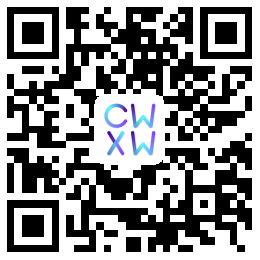
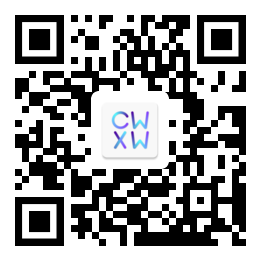
Site updated: 2020-07-21 18:21:45

diff --git a/index.html b/index.html
@@ -183,25 +183,9 @@
 <li><a href="https://github.com/mmin18/AndroidDynamicLoader" target="_blank" rel="noopener">AndroidDynamicLoader</a></li>
 <li><a href="https://github.com/wequick/Small" target="_blank" rel="noopener">Small</a></li>
 </ul>
-<h2 id="2-热修复方案"><a href="#2-热修复方案" class="headerlink" title="2.热修复方案"></a>2.热修复方案</h2><h5 id="阿里系"><a href="#阿里系" class="headerlink" title="阿里系"></a>阿里系</h5><ul>
-<li><a href="https://github.com/alibaba/AndFix" target="_blank" rel="noopener">AndFix</a></li>
-<li><a href="https://github.com/alibaba/dexposed" target="_blank" rel="noopener">dexposed</a></li>
-<li>Sophix</li>
-</ul>
-<h5 id="腾讯系"><a href="#腾讯系" class="headerlink" title="腾讯系"></a>腾讯系</h5><ul>
-<li><a href="https://github.com/Tencent/tinker" target="_blank" rel="noopener">微信tinker</a></li>
-<li>QQ空间的超级补丁</li>
-<li>手机QQ的QFix</li>
-</ul>
-<h5 id="其他"><a href="#其他" class="headerlink" title="其他"></a>其他</h5><ul>
-<li><a href="https://github.com/eleme/Amigo" target="_blank" rel="noopener">饿了吗Amigo</a></li>
-<li><a href="https://github.com/Meituan-Dianping/Robust" target="_blank" rel="noopener">美团Robust</a></li>
-<li><a href="https://github.com/meili/Aceso" target="_blank" rel="noopener">Aceso</a></li>
-<li><a href="https://github.com/jasonross/Nuwa" target="_blank" rel="noopener">Nuwa</a></li>
-<li><a href="https://github.com/dodola/RocooFix" target="_blank" rel="noopener">RocooFix</a></li>
-</ul>
-<p><strong>End</strong></p>
-
+        
+          <a class="article-more-a" href="/2020/05/16/hot_fix/#more">more >></a>
+        
       
 
       
@@ -281,40 +265,9 @@
 <p>于是我默默的打开了<a href="https://github.com/square/okhttp" target="_blank" rel="noopener">https://github.com/square/okhttp</a></p>
 <p>然后就是一连串的懵逼和对自己对OkHttp了解程度的打脸（我以为我用的3.10已经很新了）</p>
 <p><strong>😲什么时间可更新到4.3.1版本了？</strong><br><strong>😲又是什么时间从Java迁移到Kotlin了？</strong><br><strong>😲api变化大吗？</strong><br><strong>…</strong></p>
-<p>查阅到<a href="https://square.github.io/okhttp/upgrading_to_okhttp_4" target="_blank" rel="noopener">官方手册</a></p>
-<blockquote>
-<p>OkHttp 4.x upgrades our implementation language from Java to Kotlin and keeps everything else the same. We’ve chosen Kotlin because it gives us powerful new capabilities while integrating closely with Java.<br>We spent a lot of time and energy on retaining strict compatibility with OkHttp 3.x. We’re even keeping the package name the same: okhttp3!</p>
-</blockquote>
-<p>概括就是从4.x开始迁移到了Kotlin，并保持与okhttp3.x的严格兼容性，连包名都没变还是okhttp3</p>
-<p><em>看来Kotlin真的是大势所趋啊，幸好在一年多以前已经可以使用kotlin开发了</em></p>
-<p>不废话了，下面介绍OkHttp的基本请求和相应流程，源码就基于目前的最新版4.3.1</p>
-<h2 id="1-OkHttp最简单的用法"><a href="#1-OkHttp最简单的用法" class="headerlink" title="1.OkHttp最简单的用法"></a>1.OkHttp最简单的用法</h2><p>请求方式分为同步请求和异步请求</p>
-<figure class="highlight plain"><table><tr><td class="gutter"><pre><span class="line">1</span><br><span class="line">2</span><br><span class="line">3</span><br><span class="line">4</span><br><span class="line">5</span><br><span class="line">6</span><br><span class="line">7</span><br><span class="line">8</span><br><span class="line">9</span><br><span class="line">10</span><br><span class="line">11</span><br><span class="line">12</span><br><span class="line">13</span><br><span class="line">14</span><br></pre></td><td class="code"><pre><span class="line">val okHttpClient = OkHttpClient.Builder().build()</span><br><span class="line">val request = Request.Builder().url(&quot;https://xxxx&quot;).build()</span><br><span class="line">//1.同步请求直接返回response</span><br><span class="line">val response = okHttpClient.newCall(request).execute()</span><br><span class="line">//2.异步请求</span><br><span class="line">okHttpClient.newCall(request).enqueue(object : Callback &#123;</span><br><span class="line">    override fun onFailure(call: Call, e: IOException) &#123;</span><br><span class="line">        //网络请求失败的回调</span><br><span class="line">    &#125;</span><br><span class="line"></span><br><span class="line">    override fun onResponse(call: Call, response: Response) &#123;</span><br><span class="line">        //网络请求成功的回调</span><br><span class="line">    &#125;</span><br><span class="line">&#125;)</span><br></pre></td></tr></table></figure>
-<h2 id="2-流程解析"><a href="#2-流程解析" class="headerlink" title="2.流程解析"></a>2.流程解析</h2><h4 id="2-1-创建OkHttpClient"><a href="#2-1-创建OkHttpClient" class="headerlink" title="2.1 创建OkHttpClient"></a>2.1 创建OkHttpClient</h4><p>OkHttpClient是通信的客户端实例，用来统一调度发起请求与解析响应</p>
-<figure class="highlight plain"><table><tr><td class="gutter"><pre><span class="line">1</span><br><span class="line">2</span><br><span class="line">3</span><br><span class="line">4</span><br></pre></td><td class="code"><pre><span class="line">val okHttpClient = OkHttpClient.Builder()</span><br><span class="line">    .connectTimeout()</span><br><span class="line">    .addInterceptor()</span><br><span class="line">    .build()</span><br></pre></td></tr></table></figure>
-<p>OkHttpClient使用建造者模式为其设置一些参数，例如超时时间和自定义的拦截器等。一般我们在项目中OkHttpClient都是单例的，因为每个OkHttpClient实例都拥有自己的连接池、线程池和调度器，会对网络请求进行统一管理和连接复用，减少资源浪费和网络延迟</p>
-<figure class="highlight plain"><table><tr><td class="gutter"><pre><span class="line">1</span><br><span class="line">2</span><br><span class="line">3</span><br><span class="line">4</span><br><span class="line">5</span><br><span class="line">6</span><br><span class="line">7</span><br><span class="line">8</span><br></pre></td><td class="code"><pre><span class="line">class OkHttpClient &#123;</span><br><span class="line">    ...</span><br><span class="line">    //调度器，内部有线程池</span><br><span class="line">    val dispatcher: Dispatcher = builder.dispatcher</span><br><span class="line">    //连接池</span><br><span class="line">    val connectionPool: ConnectionPool = builder.connectionPool</span><br><span class="line">    ...</span><br><span class="line">&#125;</span><br></pre></td></tr></table></figure>
-<h4 id="2-2-创建Request"><a href="#2-2-创建Request" class="headerlink" title="2.2 创建Request"></a>2.2 创建Request</h4><p>Request封装了请求的具体信息，例如请求的url、请求方式、请求头、请求体</p>
-<figure class="highlight plain"><table><tr><td class="gutter"><pre><span class="line">1</span><br><span class="line">2</span><br><span class="line">3</span><br><span class="line">4</span><br><span class="line">5</span><br><span class="line">6</span><br><span class="line">7</span><br></pre></td><td class="code"><pre><span class="line">class Request internal constructor(</span><br><span class="line">  @get:JvmName(&quot;url&quot;) val url: HttpUrl,</span><br><span class="line">  @get:JvmName(&quot;method&quot;) val method: String,</span><br><span class="line">  @get:JvmName(&quot;headers&quot;) val headers: Headers,</span><br><span class="line">  @get:JvmName(&quot;body&quot;) val body: RequestBody?,</span><br><span class="line">  internal val tags: Map&lt;Class&lt;*&gt;, Any&gt;</span><br><span class="line">)</span><br></pre></td></tr></table></figure>
-<p>也是通过建造者模式设置这些参数</p>
-<figure class="highlight plain"><table><tr><td class="gutter"><pre><span class="line">1</span><br><span class="line">2</span><br><span class="line">3</span><br><span class="line">4</span><br><span class="line">5</span><br></pre></td><td class="code"><pre><span class="line">val request = Request.Builder()</span><br><span class="line">    .url()</span><br><span class="line">    .post()</span><br><span class="line">    .header()</span><br><span class="line">    .build()</span><br></pre></td></tr></table></figure>
-<h4 id="2-3-创建Call"><a href="#2-3-创建Call" class="headerlink" title="2.3 创建Call"></a>2.3 创建Call</h4><p>Call是一个接口，具体的实现类是RealCall，OkHttp的请求也都封装了RealCall中<br><figure class="highlight plain"><table><tr><td class="gutter"><pre><span class="line">1</span><br><span class="line">2</span><br><span class="line">3</span><br><span class="line">4</span><br><span class="line">5</span><br><span class="line">6</span><br><span class="line">7</span><br><span class="line">8</span><br><span class="line">9</span><br><span class="line">10</span><br><span class="line">11</span><br><span class="line">12</span><br><span class="line">13</span><br><span class="line">14</span><br><span class="line">15</span><br><span class="line">16</span><br><span class="line">17</span><br><span class="line">18</span><br><span class="line">19</span><br><span class="line">20</span><br><span class="line">21</span><br><span class="line">22</span><br><span class="line">23</span><br><span class="line">24</span><br><span class="line">25</span><br><span class="line">26</span><br><span class="line">27</span><br><span class="line">28</span><br><span class="line">29</span><br><span class="line">30</span><br><span class="line">31</span><br></pre></td><td class="code"><pre><span class="line">class OkHttpClient &#123;</span><br><span class="line">    ...</span><br><span class="line">    override fun newCall(request: Request): Call &#123;</span><br><span class="line">        return RealCall.newRealCall(this, request, false)</span><br><span class="line">    &#125;</span><br><span class="line">    ...</span><br><span class="line">&#125;</span><br><span class="line"></span><br><span class="line">interface Call : Cloneable &#123;</span><br><span class="line"></span><br><span class="line">    //请求的信息</span><br><span class="line">    fun request(): Request</span><br><span class="line">    //同步请求，会阻塞线程知道返回结果Response</span><br><span class="line">    fun execute(): Response</span><br><span class="line">    //异步请求，通过回调得到Response</span><br><span class="line">    fun enqueue(responseCallback: Callback)</span><br><span class="line">    //取消请求</span><br><span class="line">    fun cancel()</span><br><span class="line">    //请求是否在执行</span><br><span class="line">    fun isExecuted(): Boolean</span><br><span class="line">    //请求是否被取消</span><br><span class="line">    fun isCanceled(): Boolean</span><br><span class="line"></span><br><span class="line">    fun timeout(): Timeout</span><br><span class="line"></span><br><span class="line">    public override fun clone(): okhttp3.Call</span><br><span class="line"></span><br><span class="line">    interface Factory &#123;</span><br><span class="line">        fun newCall(request: Request): okhttp3.Call</span><br><span class="line">    &#125;</span><br><span class="line">&#125;</span><br></pre></td></tr></table></figure></p>
-<p>调用OkHttpClient的newCall()方法创建RealCall对象，这时会传入当前OkHttpClient实例this和上一步创建的request</p>
-<h4 id="2-4-开始请求"><a href="#2-4-开始请求" class="headerlink" title="2.4 开始请求"></a>2.4 开始请求</h4><h5 id="2-4-1-调度器Dispatcher"><a href="#2-4-1-调度器Dispatcher" class="headerlink" title="2.4.1 调度器Dispatcher"></a>2.4.1 调度器Dispatcher</h5><p>Dispatcher是OkHttp的一个核心类，负责调度同步和异步请求，取消请求，管理每一个请求的状态，内部维护了一个用来执行异步任务的线程池和三个请求队列，所有的请求Call都要先添加到请求队列</p>
-<figure class="highlight plain"><table><tr><td class="gutter"><pre><span class="line">1</span><br><span class="line">2</span><br><span class="line">3</span><br><span class="line">4</span><br><span class="line">5</span><br><span class="line">6</span><br><span class="line">7</span><br><span class="line">8</span><br><span class="line">9</span><br><span class="line">10</span><br><span class="line">11</span><br><span class="line">12</span><br><span class="line">13</span><br><span class="line">14</span><br><span class="line">15</span><br><span class="line">16</span><br><span class="line">17</span><br><span class="line">18</span><br><span class="line">19</span><br><span class="line">20</span><br><span class="line">21</span><br><span class="line">22</span><br><span class="line">23</span><br><span class="line">24</span><br><span class="line">25</span><br><span class="line">26</span><br></pre></td><td class="code"><pre><span class="line">class Dispatcher &#123;</span><br><span class="line">    ...</span><br><span class="line">    //最大任务数</span><br><span class="line">    var maxRequests = 64</span><br><span class="line">    //同一主机下最大任务数</span><br><span class="line">    var maxRequestsPerHost = 5</span><br><span class="line">    //准备运行的异步请求</span><br><span class="line">    private val readyAsyncCalls = ArrayDeque&lt;RealCall.AsyncCall&gt;()</span><br><span class="line">    //正在运行的异步请求</span><br><span class="line">    private val runningAsyncCalls = ArrayDeque&lt;RealCall.AsyncCall&gt;()</span><br><span class="line">    //正在运行的同步请求</span><br><span class="line">    private val runningSyncCalls = ArrayDeque&lt;RealCall&gt;()</span><br><span class="line">    //执行异步请求的线程池</span><br><span class="line">    private var executorServiceOrNull: ExecutorService? = null</span><br><span class="line">    val executorService: ExecutorService</span><br><span class="line">        get() &#123;</span><br><span class="line">            if (executorServiceOrNull == null) &#123;</span><br><span class="line">                executorServiceOrNull = ThreadPoolExecutor(</span><br><span class="line">                    0, Int.MAX_VALUE, 60, TimeUnit.SECONDS,</span><br><span class="line">                    SynchronousQueue(), threadFactory(&quot;OkHttp Dispatcher&quot;, false)</span><br><span class="line">                )</span><br><span class="line">            &#125;</span><br><span class="line">            return executorServiceOrNull!!</span><br><span class="line">        &#125;</span><br><span class="line">    ...</span><br><span class="line">&#125;</span><br></pre></td></tr></table></figure>
-<h5 id="2-4-2-同步请求"><a href="#2-4-2-同步请求" class="headerlink" title="2.4.2 同步请求"></a>2.4.2 同步请求</h5><p>同步请求会调用RealCall的execute方法，将自己添加进dispatcher的正在执行的任务队列，然后调用getResponseWithInterceptorChain方法得到response,最后又会调用dispatcher的finished方法从队列移除<br><figure class="highlight plain"><table><tr><td class="gutter"><pre><span class="line">1</span><br><span class="line">2</span><br><span class="line">3</span><br><span class="line">4</span><br><span class="line">5</span><br><span class="line">6</span><br><span class="line">7</span><br><span class="line">8</span><br><span class="line">9</span><br><span class="line">10</span><br><span class="line">11</span><br><span class="line">12</span><br><span class="line">13</span><br><span class="line">14</span><br><span class="line">15</span><br><span class="line">16</span><br><span class="line">17</span><br><span class="line">18</span><br><span class="line">19</span><br><span class="line">20</span><br><span class="line">21</span><br><span class="line">22</span><br></pre></td><td class="code"><pre><span class="line">class Dispatcher &#123;</span><br><span class="line">    ...</span><br><span class="line">    override fun execute(): Response &#123;</span><br><span class="line">        synchronized(this) &#123;</span><br><span class="line">            //检测是否重复调用</span><br><span class="line">            check(!executed) &#123; &quot;Already Executed&quot; &#125;</span><br><span class="line">            executed = true</span><br><span class="line">        &#125;</span><br><span class="line">        transmitter.timeoutEnter()</span><br><span class="line">        transmitter.callStart()</span><br><span class="line">        try &#123;</span><br><span class="line">            //dispatcher的executed方法，将任务添加进正在运行的同步请求队列</span><br><span class="line">            client.dispatcher.executed(this)</span><br><span class="line">            //调用getResponseWithInterceptorChain方法</span><br><span class="line">            return getResponseWithInterceptorChain()</span><br><span class="line">        &#125; finally &#123;</span><br><span class="line">            //将任务从队列移除</span><br><span class="line">            client.dispatcher.finished(this)</span><br><span class="line">        &#125;</span><br><span class="line">    &#125;</span><br><span class="line">    ...</span><br><span class="line">&#125;</span><br></pre></td></tr></table></figure></p>
-<h5 id="2-4-3-异步请求"><a href="#2-4-3-异步请求" class="headerlink" title="2.4.3 异步请求"></a>2.4.3 异步请求</h5><p>异步请求会调用RealCall的enqueue方法，传入一个Callback用于回调网络请求结果</p>
-<figure class="highlight plain"><table><tr><td class="gutter"><pre><span class="line">1</span><br><span class="line">2</span><br><span class="line">3</span><br><span class="line">4</span><br><span class="line">5</span><br><span class="line">6</span><br><span class="line">7</span><br><span class="line">8</span><br><span class="line">9</span><br><span class="line">10</span><br></pre></td><td class="code"><pre><span class="line">override fun enqueue(responseCallback: Callback) &#123;</span><br><span class="line">    synchronized(this) &#123;</span><br><span class="line">        //检测是否重复调用</span><br><span class="line">        check(!executed) &#123; &quot;Already Executed&quot; &#125;</span><br><span class="line">        executed = true</span><br><span class="line">    &#125;</span><br><span class="line">    transmitter.callStart()</span><br><span class="line">    //dispatcher的enqueue方法</span><br><span class="line">    client.dispatcher.enqueue(AsyncCall(responseCallback))</span><br><span class="line">&#125;</span><br></pre></td></tr></table></figure>
-<p>RealCall的enqueue方法里面进而又调用okHttpClient的成员dispatcher的enqueue方法，这时候对callback进行的包装，传建一个AsyncCall</p>
-<figure class="highlight plain"><table><tr><td class="gutter"><pre><span class="line">1</span><br><span class="line">2</span><br><span class="line">3</span><br><span class="line">4</span><br><span class="line">5</span><br><span class="line">6</span><br><span class="line">7</span><br><span class="line">8</span><br><span class="line">9</span><br><span class="line">10</span><br><span class="line">11</span><br><span class="line">12</span><br><span class="line">13</span><br><span class="line">14</span><br><span class="line">15</span><br><span class="line">16</span><br><span class="line">17</span><br><span class="line">18</span><br><span class="line">19</span><br><span class="line">20</span><br><span class="line">21</span><br><span class="line">22</span><br><span class="line">23</span><br><span class="line">24</span><br><span class="line">25</span><br><span class="line">26</span><br><span class="line">27</span><br><span class="line">28</span><br><span class="line">29</span><br><span class="line">30</span><br><span class="line">31</span><br><span class="line">32</span><br><span class="line">33</span><br><span class="line">34</span><br><span class="line">35</span><br><span class="line">36</span><br><span class="line">37</span><br><span class="line">38</span><br><span class="line">39</span><br><span class="line">40</span><br><span class="line">41</span><br><span class="line">42</span><br><span class="line">43</span><br><span class="line">44</span><br><span class="line">45</span><br><span class="line">46</span><br><span class="line">47</span><br></pre></td><td class="code"><pre><span class="line">class Dispatcher &#123;</span><br><span class="line">    ...</span><br><span class="line">    internal fun enqueue(call: RealCall.AsyncCall) &#123;</span><br><span class="line">        ...</span><br><span class="line">        synchronized(this) &#123;</span><br><span class="line">            //添加进准备队列</span><br><span class="line">            readyAsyncCalls.add(call)</span><br><span class="line">        &#125;</span><br><span class="line">        //取出可执行的任务</span><br><span class="line">        promoteAndExecute()</span><br><span class="line">    &#125;</span><br><span class="line"></span><br><span class="line">    private fun promoteAndExecute(): Boolean &#123;</span><br><span class="line">        ...</span><br><span class="line">        //可执行任务的集合</span><br><span class="line">        val executableCalls = mutableListOf&lt;RealCall.AsyncCall&gt;()</span><br><span class="line">        val isRunning: Boolean</span><br><span class="line">        synchronized(this) &#123;</span><br><span class="line">            val i = readyAsyncCalls.iterator()</span><br><span class="line">            while (i.hasNext()) &#123;</span><br><span class="line">                val asyncCall = i.next()</span><br><span class="line"></span><br><span class="line">                //判断是否超过最大任务数</span><br><span class="line">                if (runningAsyncCalls.size &gt;= this.maxRequests) break</span><br><span class="line">                //判断是否超过同一主机下最大任务数</span><br><span class="line">                if (asyncCall.callsPerHost().get() &gt;= this.maxRequestsPerHost) continue</span><br><span class="line">                //从等待队列移除</span><br><span class="line">                i.remove()</span><br><span class="line">                asyncCall.callsPerHost().incrementAndGet()</span><br><span class="line">                //添加到可执行任务的集合</span><br><span class="line">                executableCalls.add(asyncCall)</span><br><span class="line">                //添加到正在运行的队列</span><br><span class="line">                runningAsyncCalls.add(asyncCall)</span><br><span class="line">            &#125;</span><br><span class="line">            isRunning = runningCallsCount() &gt; 0</span><br><span class="line">        &#125;</span><br><span class="line"></span><br><span class="line">        for (i in 0 until executableCalls.size) &#123;</span><br><span class="line">            val asyncCall = executableCalls[i]</span><br><span class="line">            //执行任务，调用asyncCall的executeOn方法</span><br><span class="line">            asyncCall.executeOn(executorService)</span><br><span class="line">        &#125;</span><br><span class="line"></span><br><span class="line">        return isRunning</span><br><span class="line">    &#125;</span><br><span class="line">    ...</span><br><span class="line">&#125;</span><br></pre></td></tr></table></figure>
-<p>而AsyncCall又是一个Runnable,会在executeOn中将自己添加到线程池executorService ，在run方法中得到网络请求的结果response</p>
-<figure class="highlight plain"><table><tr><td class="gutter"><pre><span class="line">1</span><br><span class="line">2</span><br><span class="line">3</span><br><span class="line">4</span><br><span class="line">5</span><br><span class="line">6</span><br><span class="line">7</span><br><span class="line">8</span><br><span class="line">9</span><br><span class="line">10</span><br><span class="line">11</span><br><span class="line">12</span><br><span class="line">13</span><br><span class="line">14</span><br><span class="line">15</span><br><span class="line">16</span><br><span class="line">17</span><br><span class="line">18</span><br><span class="line">19</span><br><span class="line">20</span><br><span class="line">21</span><br><span class="line">22</span><br><span class="line">23</span><br><span class="line">24</span><br><span class="line">25</span><br><span class="line">26</span><br><span class="line">27</span><br><span class="line">28</span><br><span class="line">29</span><br><span class="line">30</span><br><span class="line">31</span><br><span class="line">32</span><br><span class="line">33</span><br><span class="line">34</span><br><span class="line">35</span><br><span class="line">36</span><br><span class="line">37</span><br><span class="line">38</span><br><span class="line">39</span><br><span class="line">40</span><br><span class="line">41</span><br><span class="line">42</span><br><span class="line">43</span><br><span class="line">44</span><br><span class="line">45</span><br><span class="line">46</span><br><span class="line">47</span><br></pre></td><td class="code"><pre><span class="line">internal inner class AsyncCall(</span><br><span class="line">    private val responseCallback: Callback</span><br><span class="line">) : Runnable &#123;</span><br><span class="line">    ...</span><br><span class="line">    //开启任务，执行run方法，此处省略了很多代码</span><br><span class="line">    fun executeOn(executorService: ExecutorService) &#123;</span><br><span class="line">        var success = false</span><br><span class="line">        try &#123;</span><br><span class="line">            ...</span><br><span class="line">            //开启异步任务</span><br><span class="line">            executorService.execute(this)</span><br><span class="line">            success = true</span><br><span class="line">        &#125; catch (e: RejectedExecutionException) &#123;</span><br><span class="line">            ...</span><br><span class="line">            //失败回调</span><br><span class="line">            responseCallback.onFailure(this@RealCall, ioException)</span><br><span class="line">        &#125; finally &#123;</span><br><span class="line">            ...</span><br><span class="line">            if (!success) &#123;</span><br><span class="line">                //如果开启任务失败将任务从队列移除</span><br><span class="line">                client.dispatcher.finished(this)</span><br><span class="line">            &#125;</span><br><span class="line">        &#125;</span><br><span class="line">    &#125;</span><br><span class="line"></span><br><span class="line">    override fun run() &#123;</span><br><span class="line">        try &#123;</span><br><span class="line">            ...</span><br><span class="line">            //调用这个方法得到结果response，进行回调</span><br><span class="line">            val response = getResponseWithInterceptorChain()</span><br><span class="line">            responseCallback.onResponse(this@RealCall, response)</span><br><span class="line">        &#125; catch (e: IOException) &#123;</span><br><span class="line">            ...</span><br><span class="line">            //异常也要回调</span><br><span class="line">            responseCallback.onFailure(this@RealCall, e)</span><br><span class="line">        &#125; catch (t: Throwable) &#123;</span><br><span class="line">            ...</span><br><span class="line">            //异常也要回调</span><br><span class="line">            responseCallback.onFailure(this@RealCall, canceledException)</span><br><span class="line">        &#125; finally &#123;</span><br><span class="line">            ...</span><br><span class="line">            //不管成功还是失败都要将任务从队列移除</span><br><span class="line">            client.dispatcher.finished(this)</span><br><span class="line">        &#125;</span><br><span class="line">    &#125;</span><br><span class="line">    ...</span><br><span class="line">&#125;</span><br></pre></td></tr></table></figure>
-<p>当调用dispatcher的finished方法时会将当前任务从队列中移除，同时会检查是否还有等待的异步任务<br><figure class="highlight plain"><table><tr><td class="gutter"><pre><span class="line">1</span><br><span class="line">2</span><br><span class="line">3</span><br><span class="line">4</span><br><span class="line">5</span><br><span class="line">6</span><br><span class="line">7</span><br><span class="line">8</span><br><span class="line">9</span><br><span class="line">10</span><br><span class="line">11</span><br><span class="line">12</span><br><span class="line">13</span><br><span class="line">14</span><br></pre></td><td class="code"><pre><span class="line">class Dispatcher &#123;</span><br><span class="line">    ...</span><br><span class="line">    internal fun finished(call: RealCall.AsyncCall) &#123;</span><br><span class="line">        call.callsPerHost().decrementAndGet()</span><br><span class="line">        finished(runningAsyncCalls, call)</span><br><span class="line">    &#125;</span><br><span class="line"></span><br><span class="line">    private fun &lt;T&gt; finished(calls: Deque&lt;T&gt;, call: T) &#123;</span><br><span class="line">        ...</span><br><span class="line">        //继续调用promoteAndExecute方法</span><br><span class="line">        val isRunning = promoteAndExecute()</span><br><span class="line">    &#125;</span><br><span class="line">    ...</span><br><span class="line">&#125;</span><br></pre></td></tr></table></figure></p>
-<p><strong>相同点：</strong>同步请求和异步请求最终都会调用getResponseWithInterceptorChain方法得到response</p>
-<figure class="highlight plain"><table><tr><td class="gutter"><pre><span class="line">1</span><br><span class="line">2</span><br><span class="line">3</span><br><span class="line">4</span><br><span class="line">5</span><br><span class="line">6</span><br><span class="line">7</span><br><span class="line">8</span><br><span class="line">9</span><br><span class="line">10</span><br><span class="line">11</span><br><span class="line">12</span><br><span class="line">13</span><br><span class="line">14</span><br><span class="line">15</span><br><span class="line">16</span><br><span class="line">17</span><br><span class="line">18</span><br><span class="line">19</span><br><span class="line">20</span><br><span class="line">21</span><br><span class="line">22</span><br><span class="line">23</span><br><span class="line">24</span><br><span class="line">25</span><br><span class="line">26</span><br><span class="line">27</span><br><span class="line">28</span><br><span class="line">29</span><br><span class="line">30</span><br><span class="line">31</span><br><span class="line">32</span><br><span class="line">33</span><br><span class="line">34</span><br><span class="line">35</span><br><span class="line">36</span><br><span class="line">37</span><br></pre></td><td class="code"><pre><span class="line">class RealCall &#123;</span><br><span class="line">    ...</span><br><span class="line">    fun getResponseWithInterceptorChain(): Response &#123;</span><br><span class="line">        // 创建拦截器栈</span><br><span class="line">        val interceptors = mutableListOf&lt;Interceptor&gt;()</span><br><span class="line">        interceptors += client.interceptors</span><br><span class="line">        interceptors += RetryAndFollowUpInterceptor(client)</span><br><span class="line">        interceptors += BridgeInterceptor(client.cookieJar)</span><br><span class="line">        interceptors += CacheInterceptor(client.cache)</span><br><span class="line">        interceptors += ConnectInterceptor</span><br><span class="line">        if (!forWebSocket) &#123;</span><br><span class="line">            interceptors += client.networkInterceptors</span><br><span class="line">        &#125;</span><br><span class="line">        interceptors += CallServerInterceptor(forWebSocket)</span><br><span class="line">        val chain = RealInterceptorChain(interceptors, transmitter, null, 0, originalRequest, this,</span><br><span class="line">            client.connectTimeoutMillis, client.readTimeoutMillis, client.writeTimeoutMillis)</span><br><span class="line"></span><br><span class="line">        var calledNoMoreExchanges = false</span><br><span class="line">        try &#123;</span><br><span class="line">            val response = chain.proceed(originalRequest)</span><br><span class="line">            if (transmitter.isCanceled) &#123;</span><br><span class="line">                response.closeQuietly()</span><br><span class="line">                throw IOException(&quot;Canceled&quot;)</span><br><span class="line">            &#125;</span><br><span class="line">            //返回结果</span><br><span class="line">            return response</span><br><span class="line">        &#125; catch (e: IOException) &#123;</span><br><span class="line">            calledNoMoreExchanges = true</span><br><span class="line">            throw transmitter.noMoreExchanges(e) as Throwable</span><br><span class="line">        &#125; finally &#123;</span><br><span class="line">            if (!calledNoMoreExchanges) &#123;</span><br><span class="line">                transmitter.noMoreExchanges(null)</span><br><span class="line">            &#125;</span><br><span class="line">        &#125;</span><br><span class="line">    &#125;</span><br><span class="line">    ...</span><br><span class="line">&#125;</span><br></pre></td></tr></table></figure>
-<p>到此整个请求就完成了，拿到结果Response，同步请求直接返回，异步请求用Callback进行回调</p>
-<p><strong>End</strong></p>
-
+        
+          <a class="article-more-a" href="/2020/04/18/okhttp_1/#more">more >></a>
+        
       
 
       

diff --git a/2019/12/21/wanandroid/index.html b/2019/12/21/wanandroid/index.html
@@ -17,12 +17,12 @@
 <meta property="og:description" content="标题之所以没有使用优秀、优质等华丽的辞藻修饰，是因为这个项目是本人在学习Kotlin过程中用来练手的，不敢在各位前辈和大神面前班门弄斧，自取其辱，况且Github上的玩Android客户端已经有很多个版本了，我也很难望其项背 自Google在2017的I/O大会上宣布Android支持Kotlin，到现在Kotlin语言已受到大批Android开发者的追捧，许多大厂已经使用纯Kotlin进行And">
 <meta property="og:locale" content="zh-CN">
 <meta property="og:image" content="http://yoursite.com/assets/img/20191221/01.png">
-<meta property="og:image" content="http://yoursite.com/assets/img/20190305/02.jpeg">
-<meta property="og:image" content="http://yoursite.com/assets/img/20190305/03.jpeg">
-<meta property="og:image" content="http://yoursite.com/assets/img/20190305/04.png">
-<meta property="og:image" content="http://yoursite.com/assets/img/20190305/05.jpeg">
-<meta property="og:image" content="http://yoursite.com/assets/img/20190305/06.png">
-<meta property="og:updated_time" content="2020-07-21T08:36:49.470Z">
+<meta property="og:image" content="http://yoursite.com/assets/img/20191221/02.jpeg">
+<meta property="og:image" content="http://yoursite.com/assets/img/20191221/03.jpeg">
+<meta property="og:image" content="http://yoursite.com/assets/img/20191221/04.png">
+<meta property="og:image" content="http://yoursite.com/assets/img/20191221/05.jpeg">
+<meta property="og:image" content="http://yoursite.com/assets/img/20191221/06.png">
+<meta property="og:updated_time" content="2020-07-21T10:20:40.858Z">
 <meta name="twitter:card" content="summary">
 <meta name="twitter:title" content="推荐一个Kotlin项目">
 <meta name="twitter:description" content="标题之所以没有使用优秀、优质等华丽的辞藻修饰，是因为这个项目是本人在学习Kotlin过程中用来练手的，不敢在各位前辈和大神面前班门弄斧，自取其辱，况且Github上的玩Android客户端已经有很多个版本了，我也很难望其项背 自Google在2017的I/O大会上宣布Android支持Kotlin，到现在Kotlin语言已受到大批Android开发者的追捧，许多大厂已经使用纯Kotlin进行And">
@@ -212,14 +212,14 @@
 <li><a href="https://github.com/youth5201314/banner" target="_blank" rel="noopener">轮播图控件banner</a></li>
 </ul>
 <h1 id="项目架构解析"><a href="#项目架构解析" class="headerlink" title="项目架构解析"></a>项目架构解析</h1><h2 id="项目分为四个module"><a href="#项目分为四个module" class="headerlink" title="项目分为四个module"></a>项目分为四个module</h2><p>app，App的壳<br>module_base，公共库<br>module_user、module_wan，业务模块</p>
-<p><img src="/assets/img/20190305/02.jpeg" alt></p>
+<p><img src="/assets/img/20191221/02.jpeg" alt></p>
 <p>既然是组件化开发，那各个业务模块肯定可以单独运行</p>
 <figure class="highlight plain"><table><tr><td class="gutter"><pre><span class="line">1</span><br><span class="line">2</span><br><span class="line">3</span><br><span class="line">4</span><br><span class="line">5</span><br><span class="line">6</span><br><span class="line">7</span><br><span class="line">8</span><br><span class="line">9</span><br><span class="line">10</span><br><span class="line">11</span><br><span class="line">12</span><br><span class="line">13</span><br><span class="line">14</span><br><span class="line">15</span><br><span class="line">16</span><br><span class="line">17</span><br><span class="line">18</span><br><span class="line">19</span><br><span class="line">20</span><br><span class="line">21</span><br><span class="line">22</span><br><span class="line">23</span><br></pre></td><td class="code"><pre><span class="line">//根据变量isModule判断是作为依赖library还是单独的application</span><br><span class="line">if (isModule) &#123;</span><br><span class="line">  apply plugin: &apos;com.android.library&apos;</span><br><span class="line">&#125; else &#123;</span><br><span class="line">  apply plugin: &apos;com.android.application&apos;</span><br><span class="line">&#125;</span><br><span class="line"></span><br><span class="line">sourceSets &#123;</span><br><span class="line">  main &#123;</span><br><span class="line">    //根据变量isModule使用不同文件夹的代码</span><br><span class="line">    if (isModule) &#123;</span><br><span class="line">      manifest.srcFile &apos;src/main/AndroidManifest.xml&apos;</span><br><span class="line">      java &#123;</span><br><span class="line">        //去除指定文件夹代码</span><br><span class="line">        exclude &apos;*module&apos;</span><br><span class="line">      &#125;</span><br><span class="line">    &#125; else &#123;</span><br><span class="line">      //这里面只用一个Activity，充当壳Activity</span><br><span class="line">      java.srcDirs &apos;src/main/java&apos;, &apos;src/main/module/java&apos;</span><br><span class="line">      manifest.srcFile &apos;src/main/module/AndroidManifest.xml&apos;</span><br><span class="line">     &#125;</span><br><span class="line">  &#125;</span><br><span class="line">&#125;</span><br></pre></td></tr></table></figure>
-<h2 id="app"><a href="#app" class="headerlink" title="app"></a>app</h2><p>它是app的壳，里面只有一个MainActivity，它负责整合所需要的业务模块<br><img src="/assets/img/20190305/03.jpeg" alt></p>
+<h2 id="app"><a href="#app" class="headerlink" title="app"></a>app</h2><p>它是app的壳，里面只有一个MainActivity，它负责整合所需要的业务模块<br><img src="/assets/img/20191221/03.jpeg" alt></p>
 <figure class="highlight plain"><table><tr><td class="gutter"><pre><span class="line">1</span><br><span class="line">2</span><br><span class="line">3</span><br><span class="line">4</span><br><span class="line">5</span><br><span class="line">6</span><br><span class="line">7</span><br><span class="line">8</span><br><span class="line">9</span><br><span class="line">10</span><br></pre></td><td class="code"><pre><span class="line">dependencies &#123;</span><br><span class="line">  implementation fileTree(include: [&apos;*.jar&apos;], dir: &apos;libs&apos;)</span><br><span class="line">  implementation project(&apos;:module_base&apos;)</span><br><span class="line">  kapt kaptLibs</span><br><span class="line">  if (isModule) &#123;</span><br><span class="line">    //依赖业务module</span><br><span class="line">    implementation project(&apos;:module_user&apos;)</span><br><span class="line">    implementation project(&apos;:module_wan&apos;)</span><br><span class="line">  &#125;</span><br><span class="line">&#125;</span><br></pre></td></tr></table></figure>
-<h2 id="module-base"><a href="#module-base" class="headerlink" title="module_base"></a>module_base</h2><p>作为公共库，存放base和公用代码，其它的module都要依赖它<br><img src="/assets/img/20190305/04.png" alt></p>
+<h2 id="module-base"><a href="#module-base" class="headerlink" title="module_base"></a>module_base</h2><p>作为公共库，存放base和公用代码，其它的module都要依赖它<br><img src="/assets/img/20191221/04.png" alt></p>
 <h2 id="module-wan和module-user"><a href="#module-wan和module-user" class="headerlink" title="module_wan和module_user"></a>module_wan和module_user</h2><p>主要的业务</p>
-<p><img src="/assets/img/20190305/05.jpeg" alt></p>
+<p><img src="/assets/img/20191221/05.jpeg" alt></p>
 <h1 id="Kotlin的一些特性在项目中的运用"><a href="#Kotlin的一些特性在项目中的运用" class="headerlink" title="Kotlin的一些特性在项目中的运用"></a>Kotlin的一些特性在项目中的运用</h1><h2 id="扩展函数"><a href="#扩展函数" class="headerlink" title="扩展函数"></a>扩展函数</h2><figure class="highlight plain"><table><tr><td class="gutter"><pre><span class="line">1</span><br><span class="line">2</span><br><span class="line">3</span><br><span class="line">4</span><br><span class="line">5</span><br><span class="line">6</span><br><span class="line">7</span><br><span class="line">8</span><br><span class="line">9</span><br><span class="line">10</span><br></pre></td><td class="code"><pre><span class="line">//给ImageView添加一个扩展函数，就当做ImageView有了一个load方法</span><br><span class="line">//ImageView作为接受者类型，只有ImageView和其子类能调用该方法</span><br><span class="line">fun ImageView.load(url: Any) &#123;</span><br><span class="line">  //this代表接受这对象</span><br><span class="line">  Glide.with(this).load(url).into(this)</span><br><span class="line">&#125;</span><br><span class="line"></span><br><span class="line">var imageView: ImageView = ...</span><br><span class="line">//直接使用ImageView对象调用load方法</span><br><span class="line">imageView.load(url)</span><br></pre></td></tr></table></figure>
 <p>以前使用工具类必须要传一个类型为ImageView的参数，现在直接用ImageView调用扩展方法是不是简单了很多</p>
 <h2 id="空判断"><a href="#空判断" class="headerlink" title="空判断"></a>空判断</h2><figure class="highlight plain"><table><tr><td class="gutter"><pre><span class="line">1</span><br><span class="line">2</span><br><span class="line">3</span><br><span class="line">4</span><br></pre></td><td class="code"><pre><span class="line">override fun setTitle(title: CharSequence?) &#123;  //这个？表示该变量可以为null</span><br><span class="line">  //? 表示如果toolbar不为空才执行后面的代码，给其属性title赋值</span><br><span class="line">  toolbar?.title = title</span><br><span class="line">&#125;</span><br></pre></td></tr></table></figure>
@@ -241,8 +241,8 @@
 </ol>
 <p><strong>项目中使用到了鸿洋的玩Android开放Api和很多开源库，在此向所有对开源做出过贡献的各位大神表示感谢，正是有你们的开源共享，我们这些菜鸟的技术才能有所提升，也是你们用最美的语言，推动了科技的进步</strong></p>
 <p><strong>附上本项目地址</strong> <a href="https://github.com/haoshiy/kotlin_wanandroid" target="_blank" rel="noopener">Github传送门</a></p>
-<p><strong>Apk玩Android下载地址</strong> <a href="https://haoshi.co/wanandroid.apk" target="_blank" rel="noopener">https://haoshi.co/wanandroid.apk</a></p>
-<p><img src="/assets/img/20190305/06.png" alt="扫码下载"></p>
+<p><strong>Apk玩Android下载地址</strong> <a href="http://fir.highstreet.top/kandroid" target="_blank" rel="noopener">http://fir.highstreet.top/kandroid</a></p>
+<p><img src="/assets/img/20191221/06.png" alt="扫码下载"></p>
 <p><strong>End</strong></p>
 
       

diff --git a/2020/05/16/hot_fix/index.html b/2020/05/16/hot_fix/index.html
@@ -8,18 +8,18 @@
   <link rel="dns-prefetch" href="http://yoursite.com">
   <title>热修复和插件化方案 | 我的博客|豪世-世界的世</title>
   <meta name="viewport" content="width=device-width, initial-scale=1, maximum-scale=1">
-  <meta name="description" content="1.插件化方案 阿里atlas 360DroidPlugin 360RePlugin 携程DynamicApk 滴滴VirtualAPK 任玉刚DynamicLoadApk AndroidDynamicLoader Small  2.热修复方案阿里系 AndFix dexposed Sophix  腾讯系 微信tinker QQ空间的超级补丁 手机QQ的QFix  其他 饿了吗Amigo 美团Ro">
+  <meta name="description" content="1.插件化方案 阿里atlas 360DroidPlugin 360RePlugin 携程DynamicApk 滴滴VirtualAPK 任玉刚DynamicLoadApk AndroidDynamicLoader Small">
 <meta name="keywords" content="HotFix">
 <meta property="og:type" content="article">
 <meta property="og:title" content="热修复和插件化方案">
 <meta property="og:url" content="http://yoursite.com/2020/05/16/hot_fix/index.html">
 <meta property="og:site_name" content="我的博客|豪世-世界的世">
-<meta property="og:description" content="1.插件化方案 阿里atlas 360DroidPlugin 360RePlugin 携程DynamicApk 滴滴VirtualAPK 任玉刚DynamicLoadApk AndroidDynamicLoader Small  2.热修复方案阿里系 AndFix dexposed Sophix  腾讯系 微信tinker QQ空间的超级补丁 手机QQ的QFix  其他 饿了吗Amigo 美团Ro">
+<meta property="og:description" content="1.插件化方案 阿里atlas 360DroidPlugin 360RePlugin 携程DynamicApk 滴滴VirtualAPK 任玉刚DynamicLoadApk AndroidDynamicLoader Small">
 <meta property="og:locale" content="zh-CN">
-<meta property="og:updated_time" content="2020-07-21T08:30:14.928Z">
+<meta property="og:updated_time" content="2020-07-21T10:15:35.607Z">
 <meta name="twitter:card" content="summary">
 <meta name="twitter:title" content="热修复和插件化方案">
-<meta name="twitter:description" content="1.插件化方案 阿里atlas 360DroidPlugin 360RePlugin 携程DynamicApk 滴滴VirtualAPK 任玉刚DynamicLoadApk AndroidDynamicLoader Small  2.热修复方案阿里系 AndFix dexposed Sophix  腾讯系 微信tinker QQ空间的超级补丁 手机QQ的QFix  其他 饿了吗Amigo 美团Ro">
+<meta name="twitter:description" content="1.插件化方案 阿里atlas 360DroidPlugin 360RePlugin 携程DynamicApk 滴滴VirtualAPK 任玉刚DynamicLoadApk AndroidDynamicLoader Small">
   
     <link rel="alternative" href="/atom.xml" title="我的博客|豪世-世界的世" type="application/atom+xml">
   
@@ -186,6 +186,7 @@
 <li><a href="https://github.com/mmin18/AndroidDynamicLoader" target="_blank" rel="noopener">AndroidDynamicLoader</a></li>
 <li><a href="https://github.com/wequick/Small" target="_blank" rel="noopener">Small</a></li>
 </ul>
+<a id="more"></a>
 <h2 id="2-热修复方案"><a href="#2-热修复方案" class="headerlink" title="2.热修复方案"></a>2.热修复方案</h2><h5 id="阿里系"><a href="#阿里系" class="headerlink" title="阿里系"></a>阿里系</h5><ul>
 <li><a href="https://github.com/alibaba/AndFix" target="_blank" rel="noopener">AndFix</a></li>
 <li><a href="https://github.com/alibaba/dexposed" target="_blank" rel="noopener">dexposed</a></li>

diff --git a/2020/04/18/okhttp_1/index.html b/2020/04/18/okhttp_1/index.html
@@ -16,7 +16,7 @@
 <meta property="og:site_name" content="我的博客|豪世-世界的世">
 <meta property="og:description" content="从事Android开发多年，做过的项目中http请求框架一直用的OkHttp，从鸿神的okhttputils，到后来的Retrofit，万变不离其宗 应该有很多同学和我一样也都在这使用这些框架，但也只仅仅停留在会用的状态，知道它牛批，用的人最多，但是具体牛批在哪，也说不出个所以然 但是现在都0202了 本着对自己负责的心态和让自己在公司疯狂裁员的处境下能够更加淡然面对（能给我安全感的不只有手机和钱">
 <meta property="og:locale" content="zh-CN">
-<meta property="og:updated_time" content="2020-07-21T08:30:25.067Z">
+<meta property="og:updated_time" content="2020-07-21T10:16:02.510Z">
 <meta name="twitter:card" content="summary">
 <meta name="twitter:title" content="OkHttp4.x源码解析(一)--基本流程">
 <meta name="twitter:description" content="从事Android开发多年，做过的项目中http请求框架一直用的OkHttp，从鸿神的okhttputils，到后来的Retrofit，万变不离其宗 应该有很多同学和我一样也都在这使用这些框架，但也只仅仅停留在会用的状态，知道它牛批，用的人最多，但是具体牛批在哪，也说不出个所以然 但是现在都0202了 本着对自己负责的心态和让自己在公司疯狂裁员的处境下能够更加淡然面对（能给我安全感的不只有手机和钱">
@@ -183,6 +183,7 @@
 <p>于是我默默的打开了<a href="https://github.com/square/okhttp" target="_blank" rel="noopener">https://github.com/square/okhttp</a></p>
 <p>然后就是一连串的懵逼和对自己对OkHttp了解程度的打脸（我以为我用的3.10已经很新了）</p>
 <p><strong>😲什么时间可更新到4.3.1版本了？</strong><br><strong>😲又是什么时间从Java迁移到Kotlin了？</strong><br><strong>😲api变化大吗？</strong><br><strong>…</strong></p>
+<a id="more"></a>
 <p>查阅到<a href="https://square.github.io/okhttp/upgrading_to_okhttp_4" target="_blank" rel="noopener">官方手册</a></p>
 <blockquote>
 <p>OkHttp 4.x upgrades our implementation language from Java to Kotlin and keeps everything else the same. We’ve chosen Kotlin because it gives us powerful new capabilities while integrating closely with Java.<br>We spent a lot of time and energy on retaining strict compatibility with OkHttp 3.x. We’re even keeping the package name the same: okhttp3!</p>
